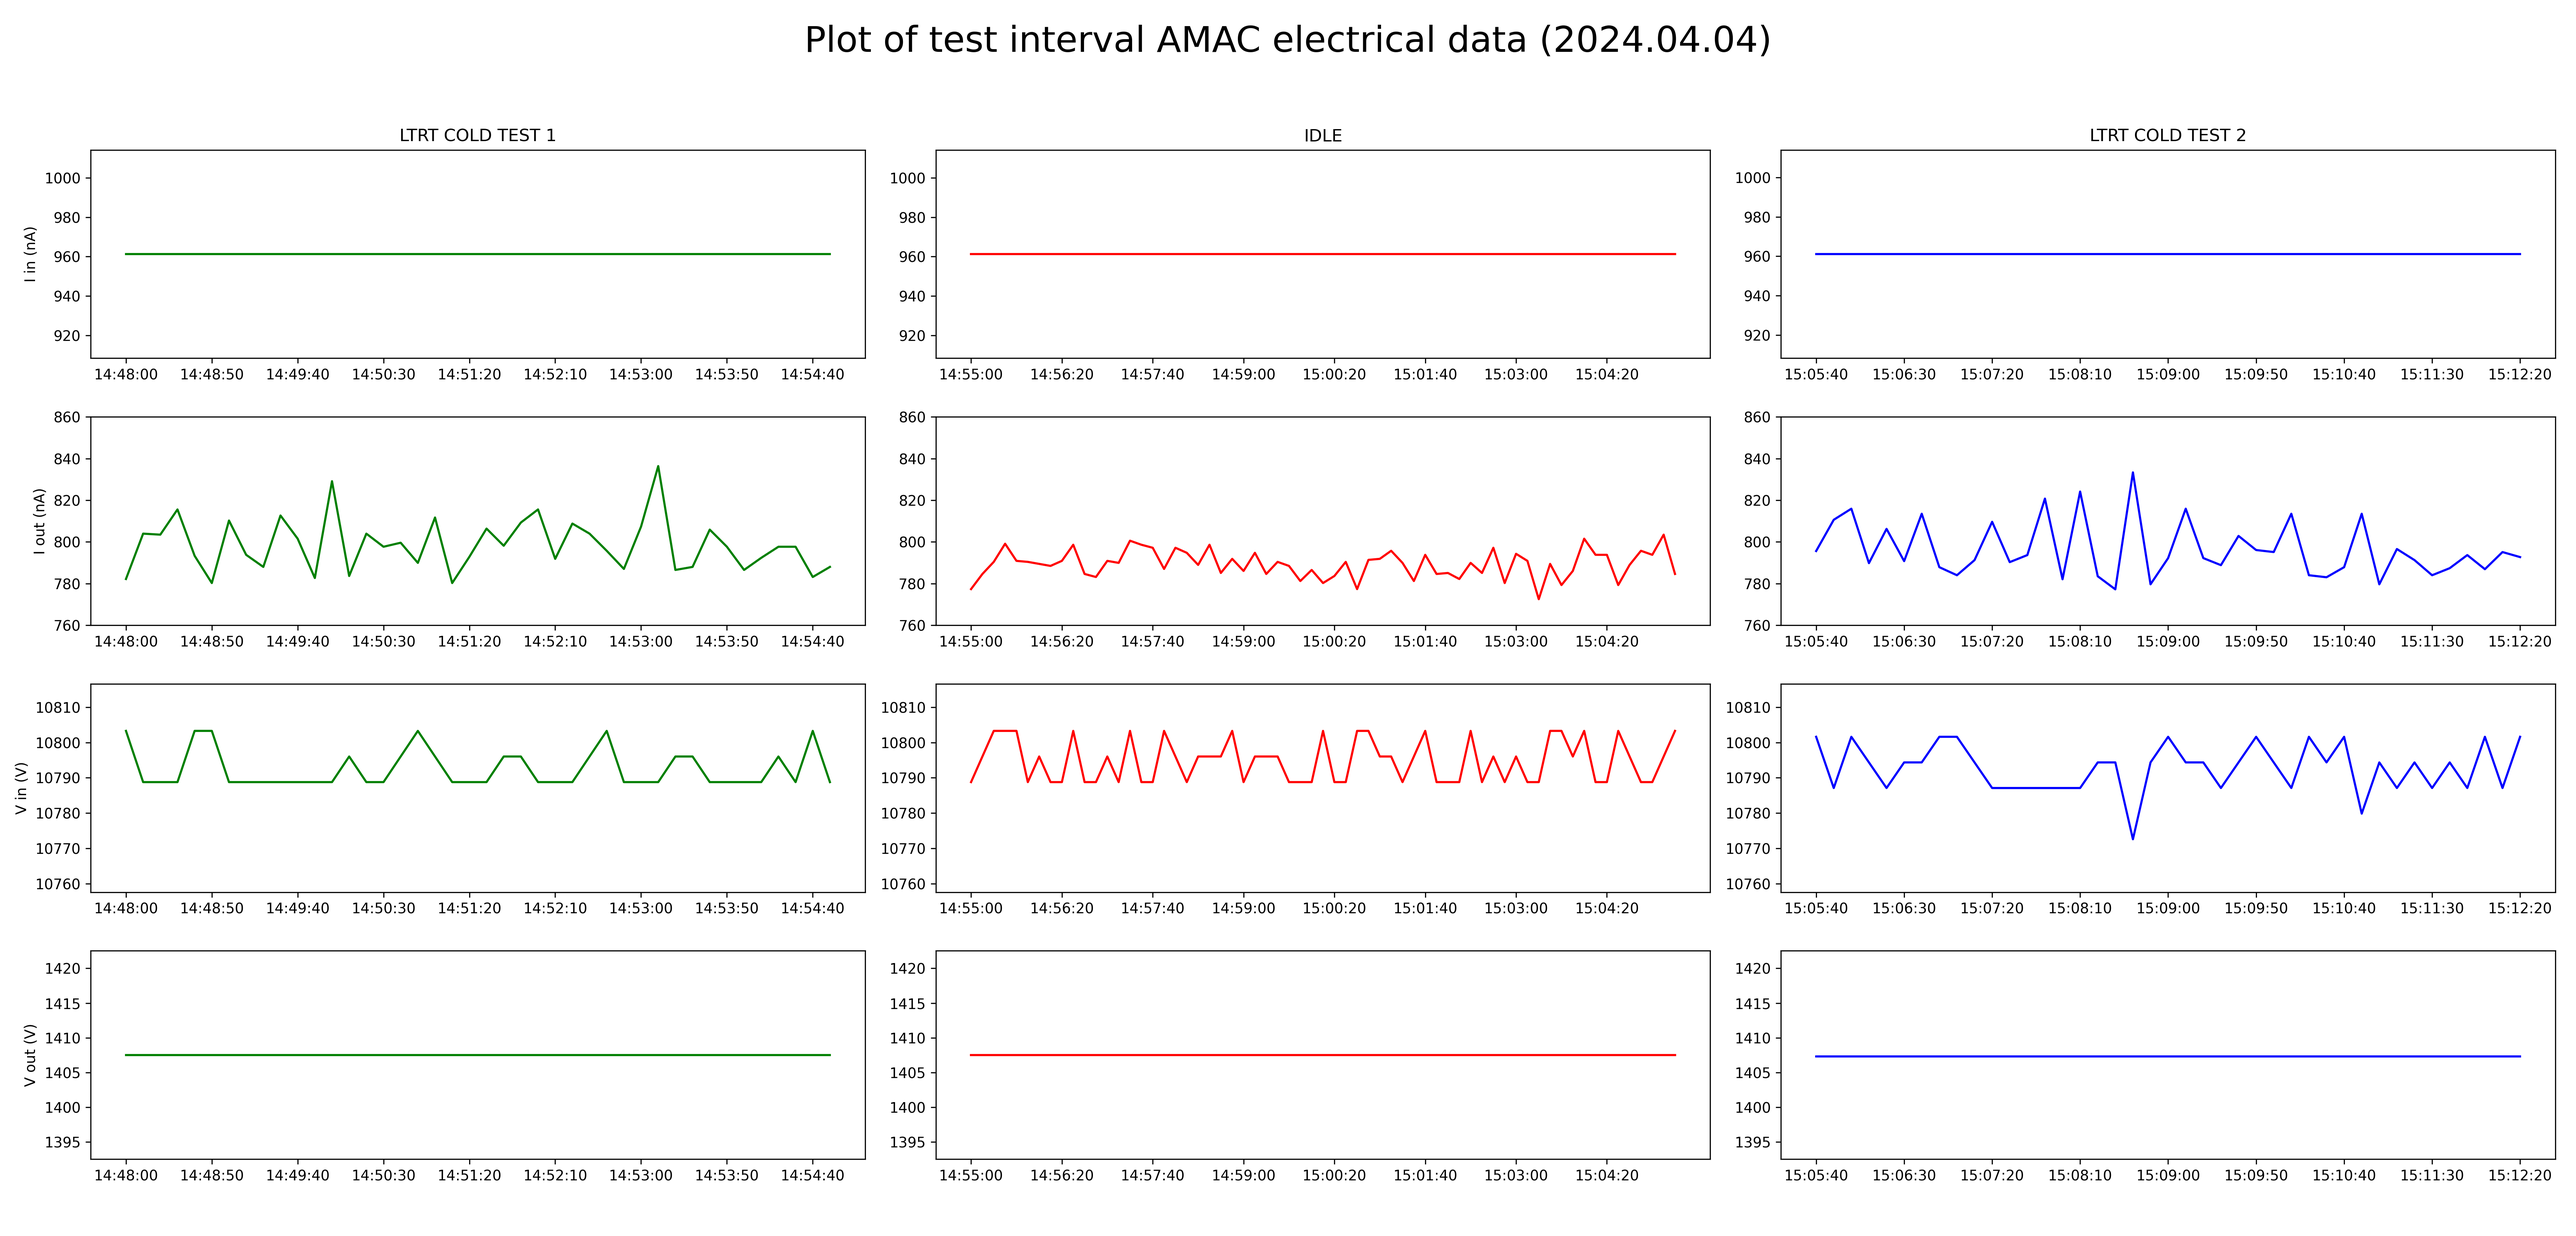
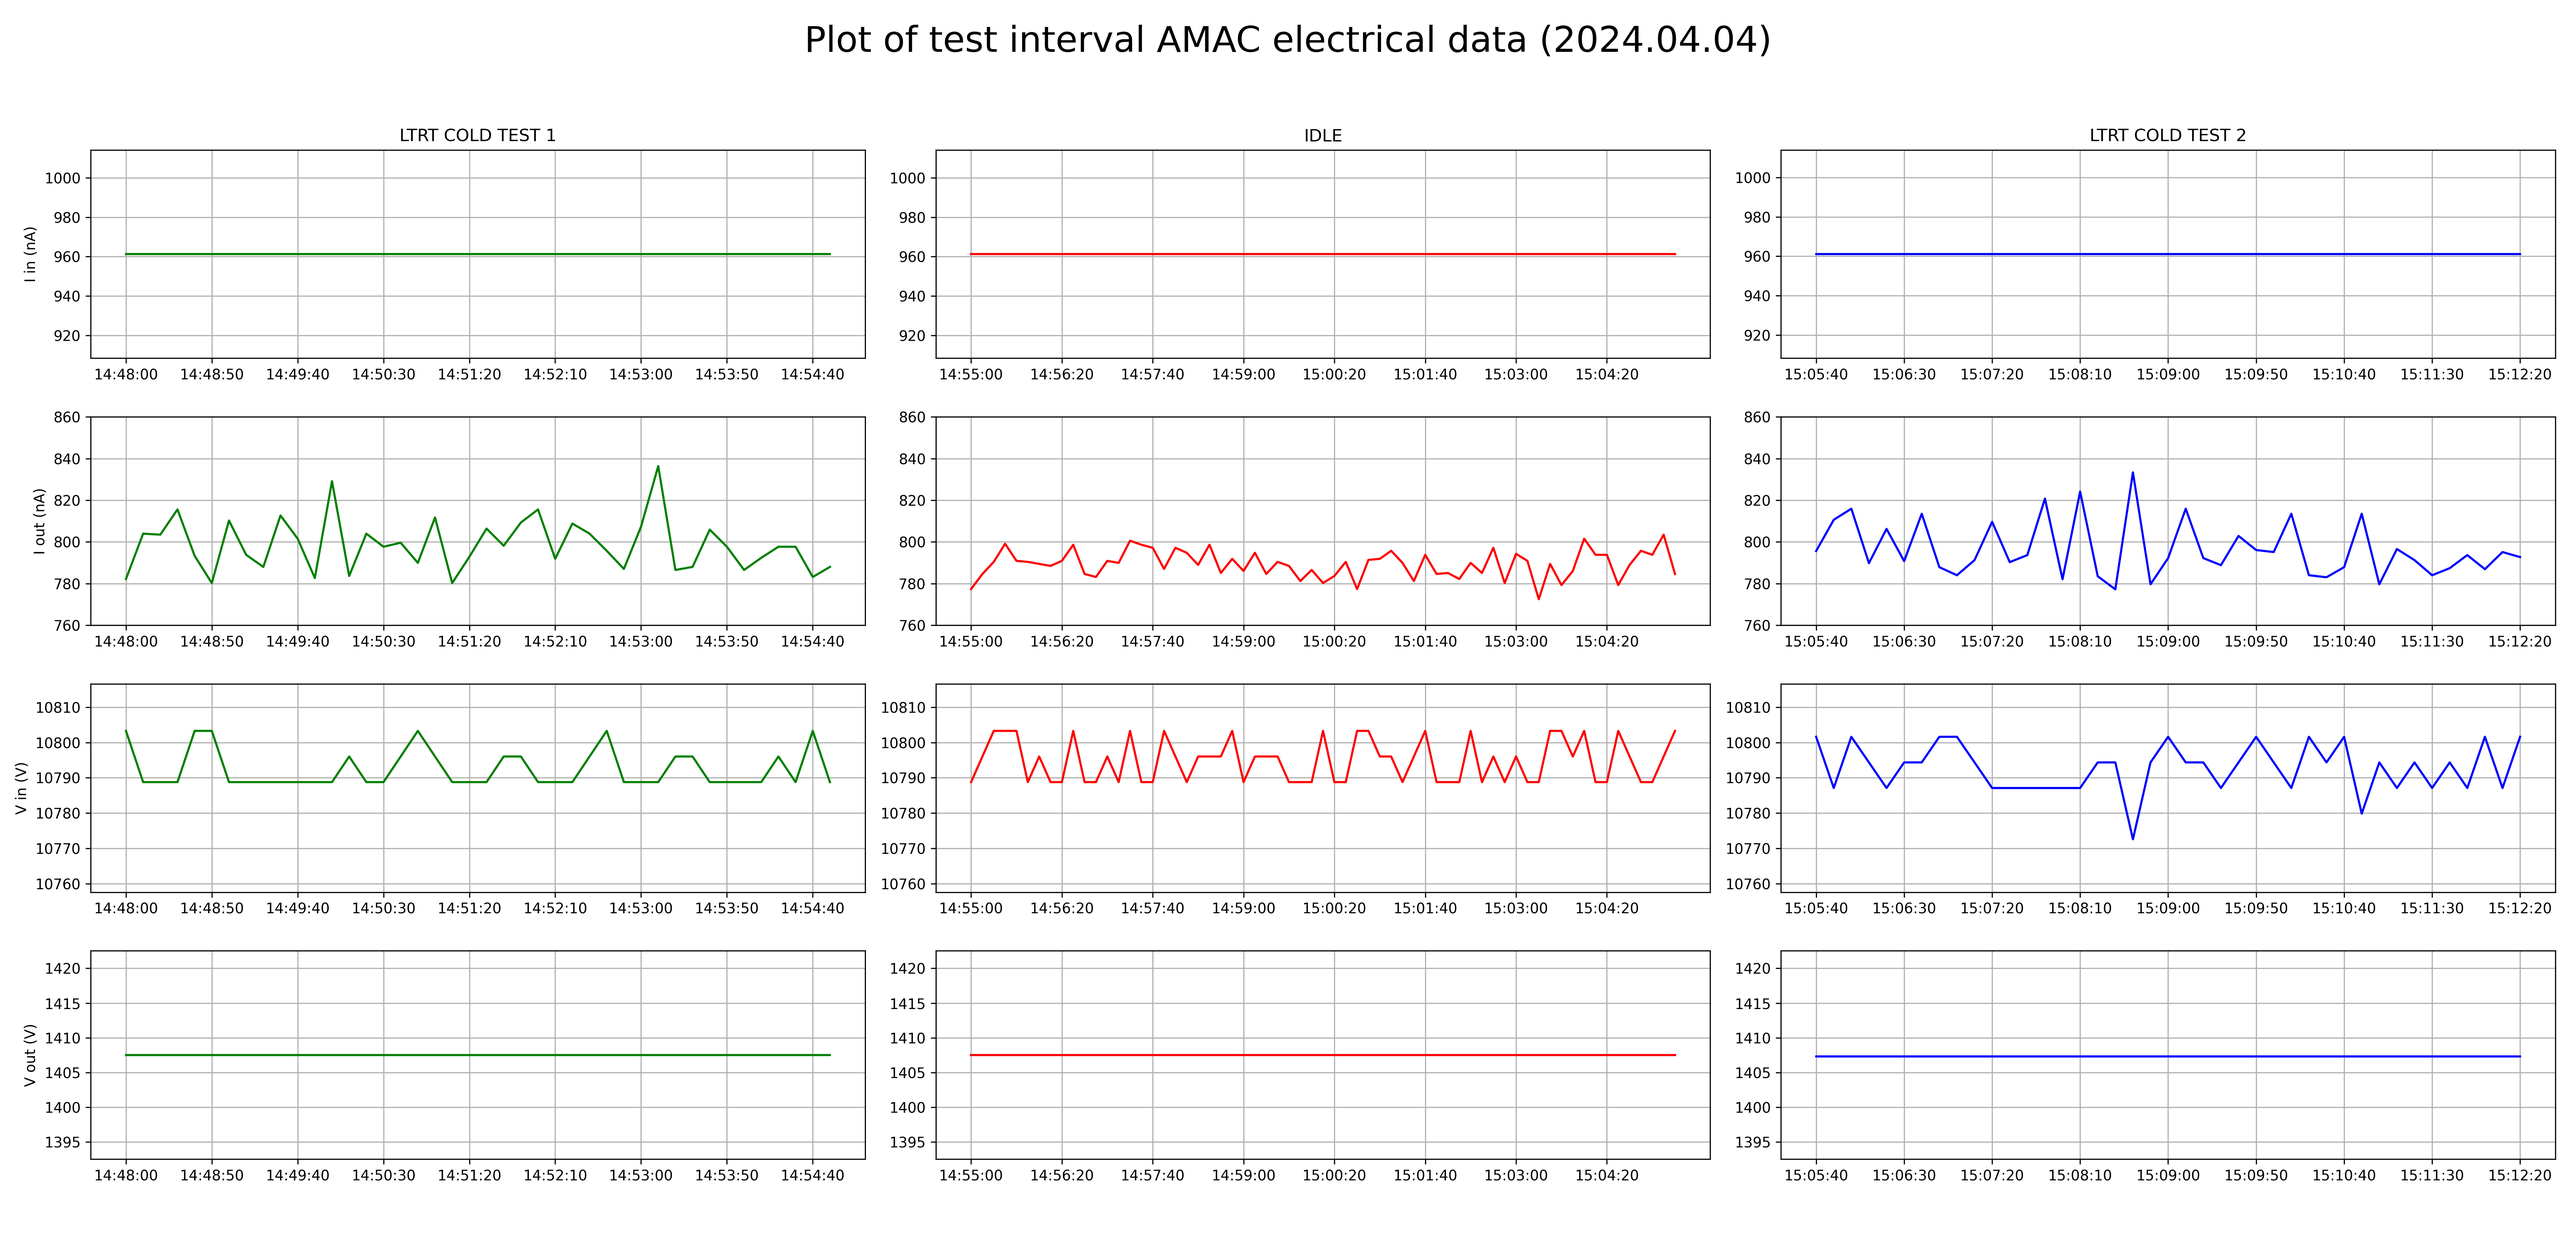
update

diff --git a/Thesis/analyze_amac_fulltest.py b/Thesis/analyze_amac_fulltest.py
@@ -180,6 +180,7 @@ for i in range(0, num_tests, 3):  # Loop through test keys by increments of 3
     #plt.ylim(min_val, max_val)
     plt.title("LTRT COLD TEST 1")
     plt.xticks(ticks=range(0, len(time_labels_1), len(time_labels_1) // 9 + 1)) 
+    plt.grid(True) 
     #plt.xticks([])
     
     plt.subplot(4, 3, i + 2)
@@ -189,6 +190,7 @@ for i in range(0, num_tests, 3):  # Loop through test keys by increments of 3
     plt.xticks([])
     plt.title("IDLE")
     plt.xticks(ticks=range(0, len(time_labels_3), len(time_labels_3) // 9 + 1))
+    plt.grid(True) 
     #plt.xticks([])
     
     plt.subplot(4, 3, i + 3)
@@ -198,6 +200,7 @@ for i in range(0, num_tests, 3):  # Loop through test keys by increments of 3
     plt.xticks([])
     plt.title("LTRT COLD TEST 2")
     plt.xticks(ticks=range(0, len(time_labels_1), len(time_labels_1) // 9 + 1)) 
+    plt.grid(True) 
     #plt.xticks([])
 
 
@@ -209,6 +212,7 @@ for i in range(0, num_tests, 3):  # Loop through test keys by increments of 3
     #max_val = max(x for x in Iin if x is not None)+2
     plt.ylim(760, 860)
     plt.xticks(ticks=range(0, len(time_labels_1), len(time_labels_1) // 9 + 1)) 
+    plt.grid(True) 
     #plt.xticks([])
     
     plt.subplot(4, 3, i + 5)
@@ -217,6 +221,7 @@ for i in range(0, num_tests, 3):  # Loop through test keys by increments of 3
     plt.ylim(760, 860)
     plt.xticks([])
     plt.xticks(ticks=range(0, len(time_labels_3), len(time_labels_3) // 9 + 1))
+    plt.grid(True) 
     #plt.xticks([])
     
     plt.subplot(4, 3, i + 6)
@@ -225,6 +230,7 @@ for i in range(0, num_tests, 3):  # Loop through test keys by increments of 3
     plt.ylim(760, 860)
     plt.xticks([])
     plt.xticks(ticks=range(0, len(time_labels_1), len(time_labels_1) // 9 + 1)) 
+    plt.grid(True) 
     #plt.xticks([])
     
     '''
@@ -344,6 +350,7 @@ for i in range(0, num_tests, 3):  # Loop through test keys by increments of 3
     max_val = max(x for x in Vin_2 if x is not None)+15
     plt.ylim(min_val, max_val)
     plt.xticks(ticks=range(0, len(time_labels_1), len(time_labels_1) // 9 + 1)) 
+    plt.grid(True) 
     #plt.xticks([])
     
     
@@ -353,6 +360,7 @@ for i in range(0, num_tests, 3):  # Loop through test keys by increments of 3
     plt.ylim(min_val, max_val)
     plt.xticks([])
     plt.xticks(ticks=range(0, len(time_labels_3), len(time_labels_3) // 9 + 1))
+    plt.grid(True) 
     #plt.xticks([])
     
     plt.subplot(4, 3, i + 9)
@@ -361,6 +369,7 @@ for i in range(0, num_tests, 3):  # Loop through test keys by increments of 3
     plt.ylim(min_val, max_val)
     plt.xticks([])
     plt.xticks(ticks=range(0, len(time_labels_1), len(time_labels_1) // 9 + 1)) 
+    plt.grid(True) 
     #plt.xticks([])
     
     
@@ -372,6 +381,7 @@ for i in range(0, num_tests, 3):  # Loop through test keys by increments of 3
     max_val = max(x for x in Vout_1 if x is not None)+15
     plt.ylim(min_val, max_val)
     plt.xticks(ticks=range(0, len(time_labels_1), len(time_labels_1) // 9 + 1)) 
+    plt.grid(True) 
     #plt.xticks([])
     
     plt.subplot(4, 3, i + 11)
@@ -380,6 +390,7 @@ for i in range(0, num_tests, 3):  # Loop through test keys by increments of 3
     plt.ylim(min_val, max_val)
     plt.xticks([])
     plt.xticks(ticks=range(0, len(time_labels_3), len(time_labels_3) // 9 + 1))
+    plt.grid(True) 
     #plt.xticks([])
     
     plt.subplot(4, 3, i + 12)
@@ -388,6 +399,7 @@ for i in range(0, num_tests, 3):  # Loop through test keys by increments of 3
     plt.ylim(min_val, max_val)
     plt.xticks([])
     plt.xticks(ticks=range(0, len(time_labels_1), len(time_labels_1) // 9 + 1)) 
+    plt.grid(True) 
     #plt.xticks([])
     
     
@@ -408,6 +420,7 @@ for i in range(0, num_tests, 3):  # Loop through test keys by increments of 3
     max_val = max(x for x in NTCx_2 if x is not None)+1
     plt.ylim(min_val, max_val)
     plt.xticks(ticks=range(0, len(time_labels_1), len(time_labels_1) // 9 + 1)) 
+    plt.grid(True) 
     #plt.xticks([])
     
     plt.subplot(3, 3, i + 2)
@@ -417,6 +430,7 @@ for i in range(0, num_tests, 3):  # Loop through test keys by increments of 3
     plt.ylim(min_val, max_val)
     plt.xticks([])
     plt.xticks(ticks=range(0, len(time_labels_3), len(time_labels_3) // 9 + 1))
+    plt.grid(True) 
     #plt.xticks([])
     
     plt.subplot(3, 3, i + 3)
@@ -426,6 +440,7 @@ for i in range(0, num_tests, 3):  # Loop through test keys by increments of 3
     plt.ylim(min_val, max_val)
     plt.xticks([])
     plt.xticks(ticks=range(0, len(time_labels_1), len(time_labels_1) // 9 + 1)) 
+    plt.grid(True) 
     #plt.xticks([])
     
     
@@ -436,6 +451,7 @@ for i in range(0, num_tests, 3):  # Loop through test keys by increments of 3
     max_val = max(x for x in NTCy_1 if x is not None)+1
     plt.ylim(min_val, max_val)
     plt.xticks(ticks=range(0, len(time_labels_1), len(time_labels_1) // 9 + 1)) 
+    plt.grid(True) 
     #plt.xticks([])
     
     plt.subplot(3, 3, i + 5)
@@ -444,6 +460,7 @@ for i in range(0, num_tests, 3):  # Loop through test keys by increments of 3
     plt.ylim(min_val, max_val)
     plt.xticks([])
     plt.xticks(ticks=range(0, len(time_labels_3), len(time_labels_3) // 9 + 1))
+    plt.grid(True) 
     #plt.xticks([])
     
     plt.subplot(3, 3, i + 6)
@@ -452,6 +469,7 @@ for i in range(0, num_tests, 3):  # Loop through test keys by increments of 3
     plt.ylim(min_val, max_val)
     plt.xticks([])
     plt.xticks(ticks=range(0, len(time_labels_1), len(time_labels_1) // 9 + 1)) 
+    plt.grid(True) 
     #plt.xticks([])
     
     
@@ -462,6 +480,7 @@ for i in range(0, num_tests, 3):  # Loop through test keys by increments of 3
     max_val = max(x for x in NTCpb_1 if x is not None)+1
     plt.ylim(min_val, max_val)
     plt.xticks(ticks=range(0, len(time_labels_1), len(time_labels_1) // 9 + 1)) 
+    plt.grid(True) 
     #plt.xticks([])
     
     plt.subplot(3, 3, i + 8)
@@ -470,6 +489,7 @@ for i in range(0, num_tests, 3):  # Loop through test keys by increments of 3
     plt.ylim(min_val, max_val)
     plt.xticks([])
     plt.xticks(ticks=range(0, len(time_labels_3), len(time_labels_3) // 9 + 1))
+    plt.grid(True) 
     #plt.xticks([])
     
     plt.subplot(3, 3, i + 9)
@@ -478,6 +498,7 @@ for i in range(0, num_tests, 3):  # Loop through test keys by increments of 3
     plt.ylim(min_val, max_val)
     plt.xticks([])
     plt.xticks(ticks=range(0, len(time_labels_1), len(time_labels_1) // 9 + 1)) 
+    plt.grid(True) 
     #plt.xticks([])
     
     
